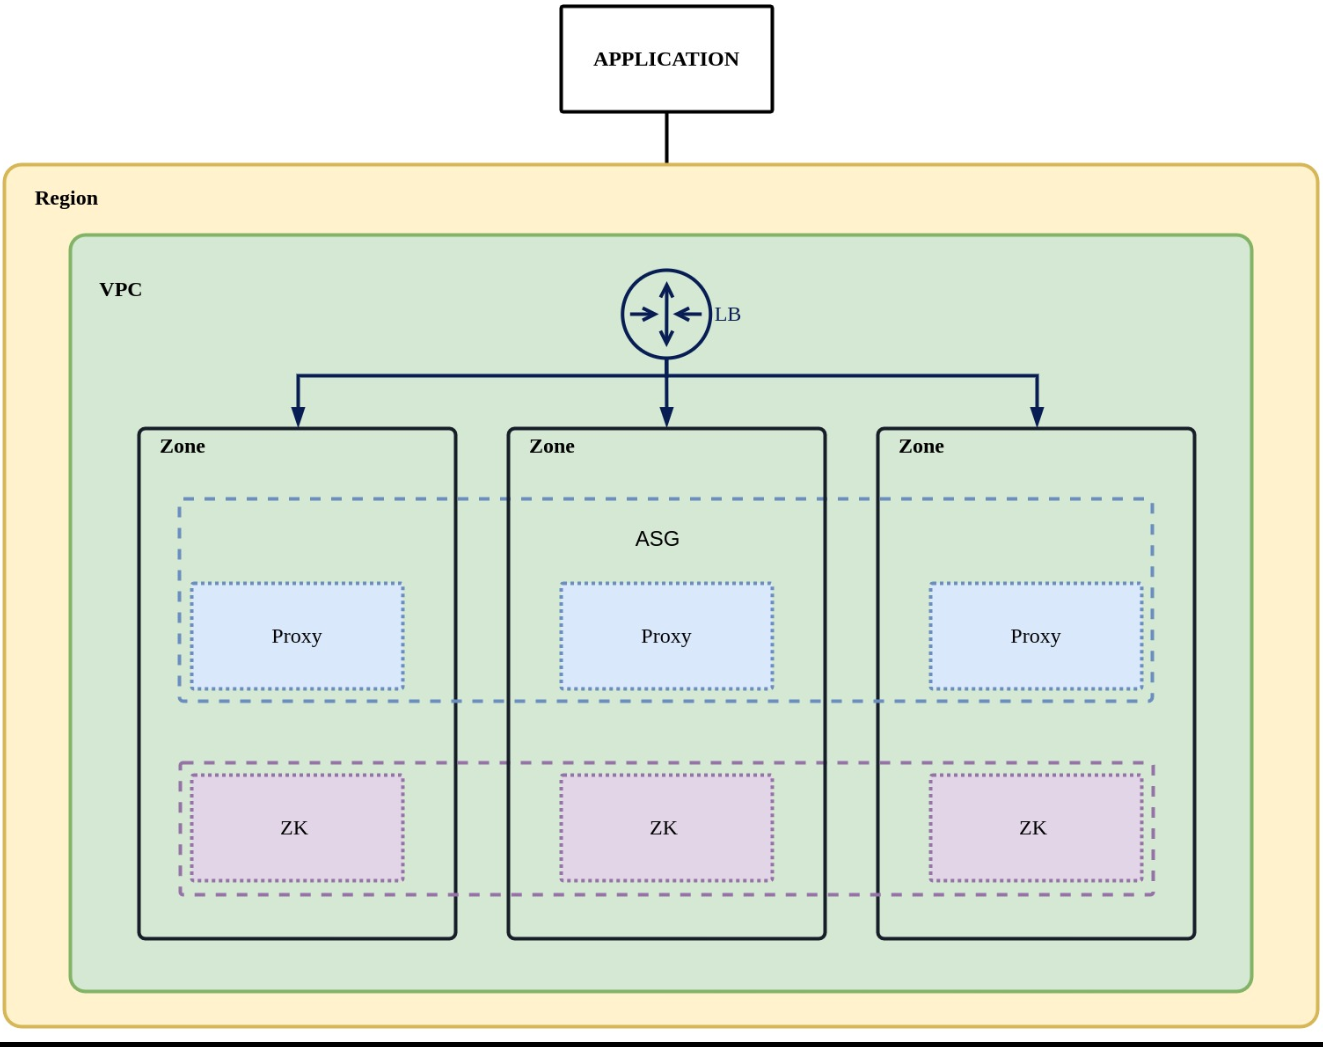
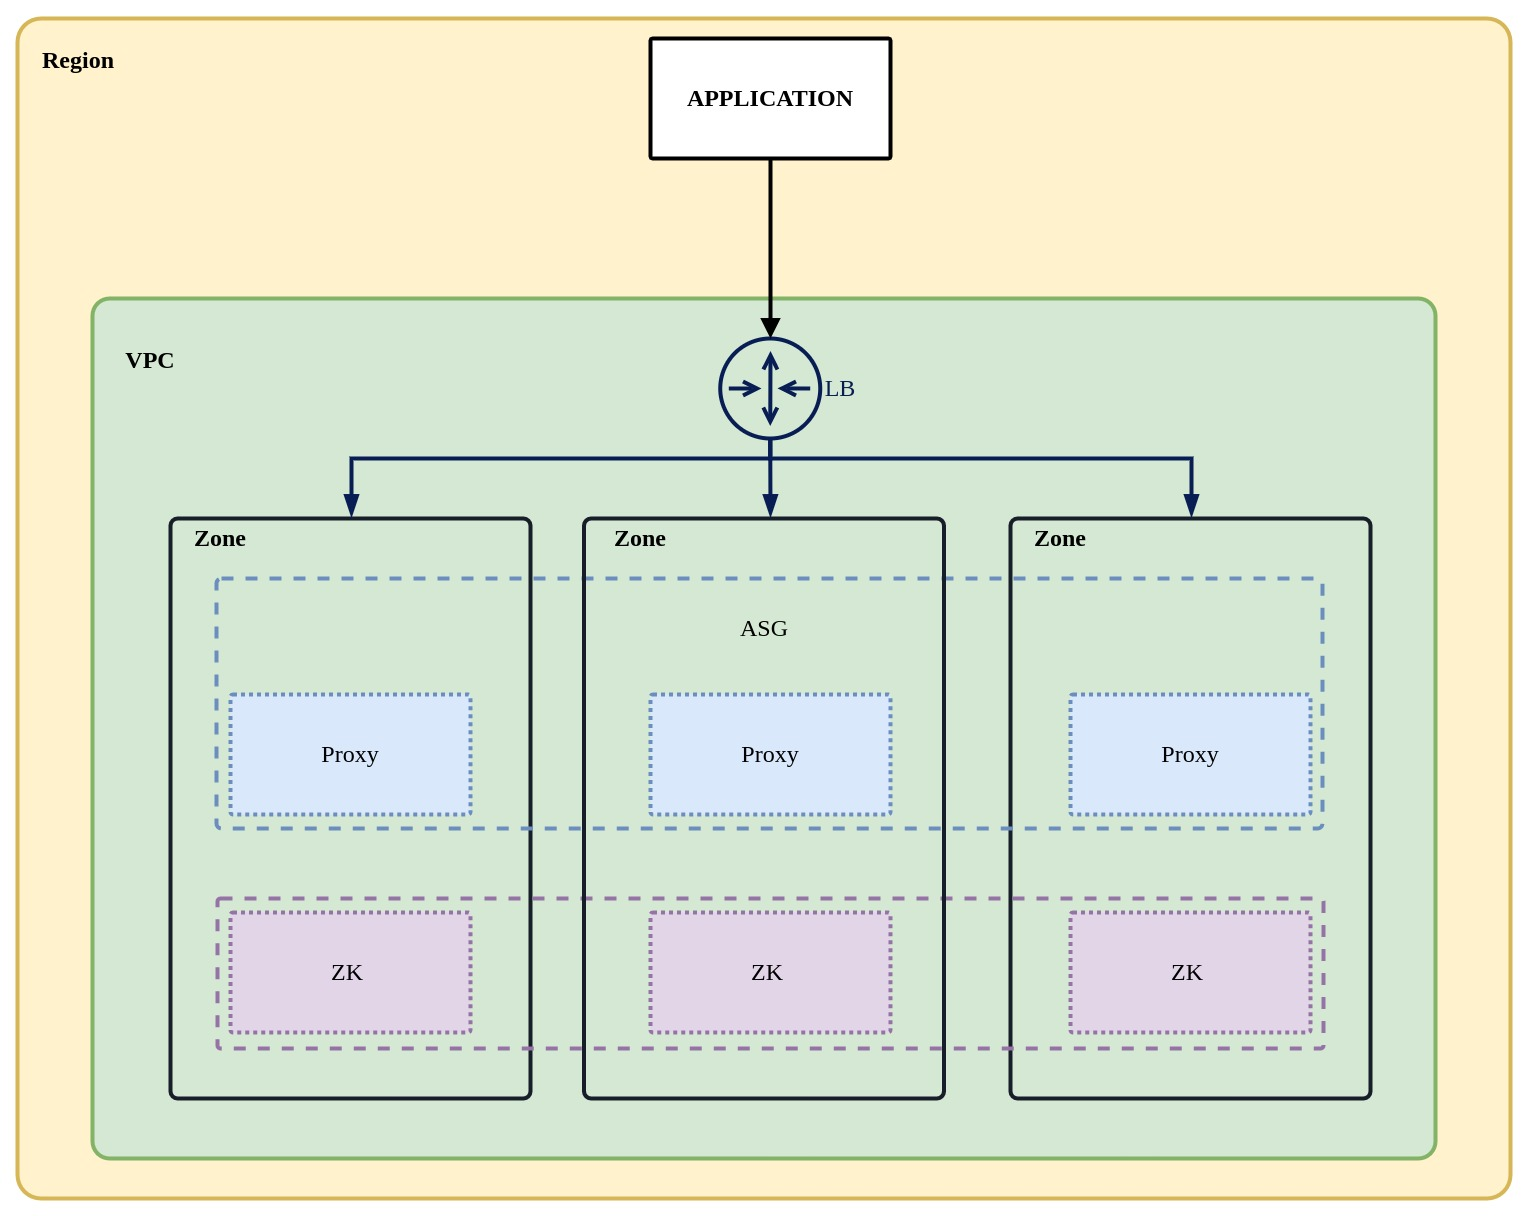
chore(doc): update proxy version and arch image

Changed region(s): [[0.0, 0.0, 1.0, 1.0], [0.4649, 0.489, 0.5268, 0.5196]]

diff --git a/charts/apache-shardingsphere-operator-charts/README.md b/charts/apache-shardingsphere-operator-charts/README.md
@@ -36,9 +36,9 @@ helm unstall [RELEASE_NAME]
 ### ShardingSphere-Proxy Cluster Parameters
 
 | Name                                             | Description                                                                                                                                                                                        | Value       |
-|--------------------------------------------------| -------------------------------------------------------------------------------------------------------------------------------------------------------------------------------------------------- | ----------- |
+|--------------------------------------------------| -------------------------------------------------------------------------------------------------------------------------------------------------------------------------------------------------- |-------------|
 | `proxyCluster.replicaCount`                      | ShardingSphere-Proxy cluster starts the number of replicas, Note: After you enable automaticScaling, this parameter will no longer take effect                                                     | `3`         |
-| `proxyCluster.proxyVersion`                      | ShardingSphere-Proxy cluster version                                                                                                                                                               | `5.2.0`     |
+| `proxyCluster.proxyVersion`                      | ShardingSphere-Proxy cluster version                                                                                                                                                               | `5.3.0`     |
 | `proxyCluster.automaticScaling.enable`           | ShardingSphere-Proxy Whether the ShardingSphere-Proxy cluster has auto-scaling enabled                                                                                                             | `false`     |
 | `proxyCluster.automaticScaling.scaleUpWindows`   | ShardingSphere-Proxy automatically scales the stable window                                                                                                                                        | `30`        |
 | `proxyCluster.automaticScaling.scaleDownWindows` | ShardingSphere-Proxy automatically shrinks the stabilized window                                                                                                                                   | `30`        |
